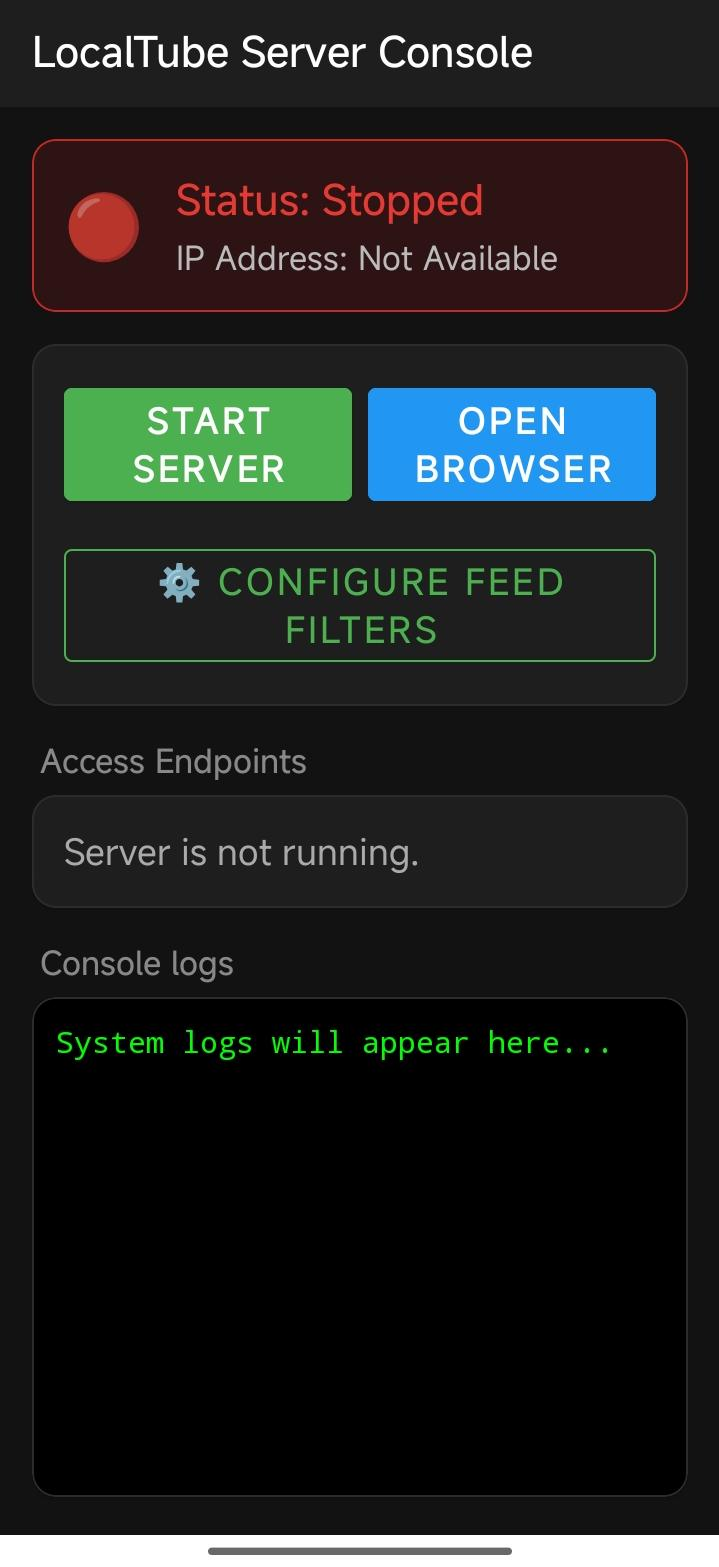
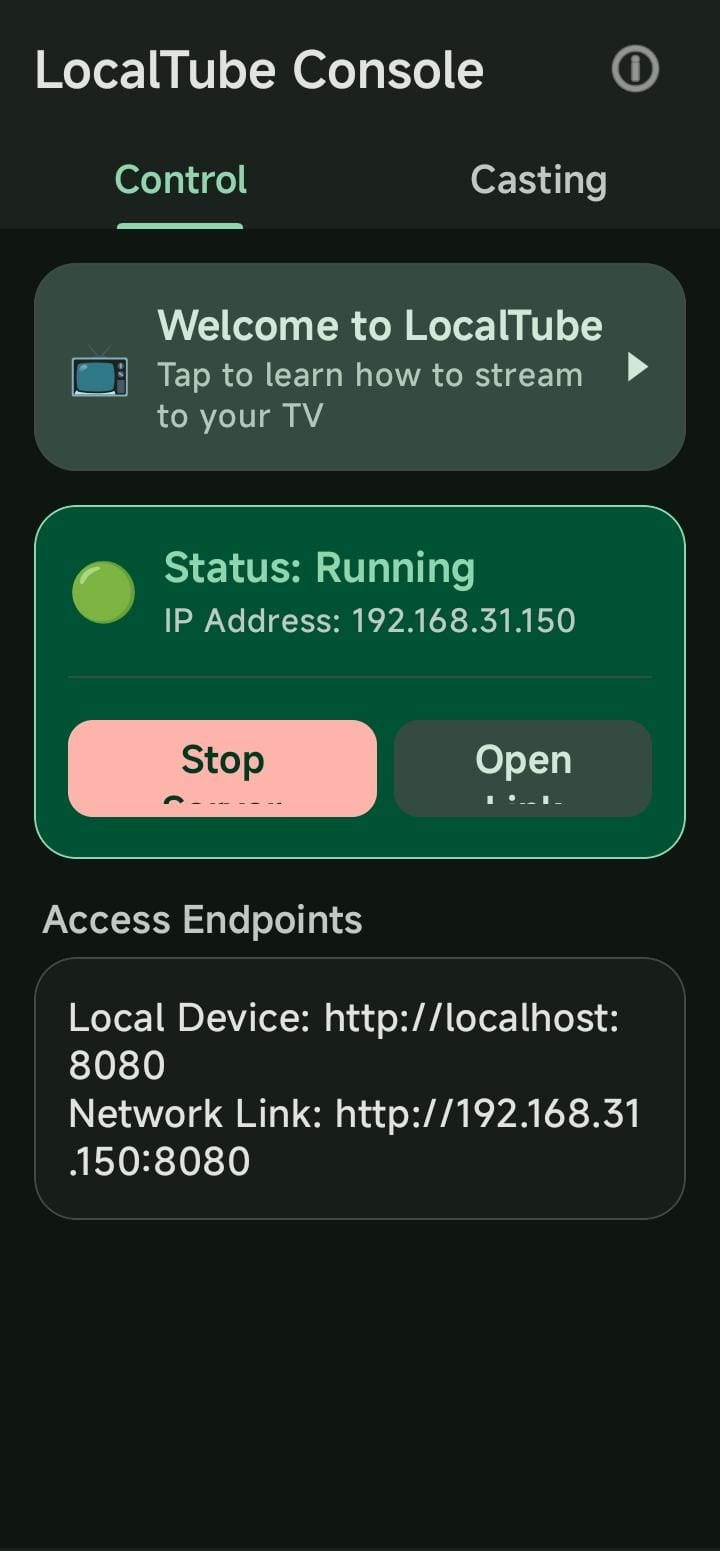
chore: screenshots update

diff --git a/README.md b/README.md
@@ -28,9 +28,20 @@ LocalTube transforms the stateless library core of NewPipe Extractor into a priv
 
 ## 📸 Interface Preview
 
-| Android App Interface | Web Interface Home (Light) | Media Streaming & Details |
+### Android Application
+| Server Control (Main) | Server Settings | Touchpad Remote |
 | :---: | :---: | :---: |
-| ![Android App Interface](screenshots/app_interface.jpg) | ![Web Interface Home](screenshots/web_interface_home.jpg) | ![Streaming Interface](screenshots/web_interface_watch.jpg) |
+| ![Android App Interface](screenshots/app_interface.jpg) | ![App Settings](screenshots/settings.jpg) | ![Touchpad Remote](screenshots/touchpad.jpg) |
+
+### Web Interface (Desktop & TV)
+| Home (Dark Theme) | Home (Light Theme) | Web Player & Details |
+| :---: | :---: | :---: |
+| ![Home Dark](screenshots/homepage-black.png) | ![Home Light](screenshots/homepage-white.png) | ![Web Player](screenshots/videoplayer.png) |
+
+### Web Interface (Mobile)
+| Mobile Web Home | Mobile Web Player |
+| :---: | :---: |
+| ![Mobile Home](screenshots/homepage_mobile.png) | ![Mobile Player](screenshots/videoplayer_mobile.png) |
 
 ---
 
